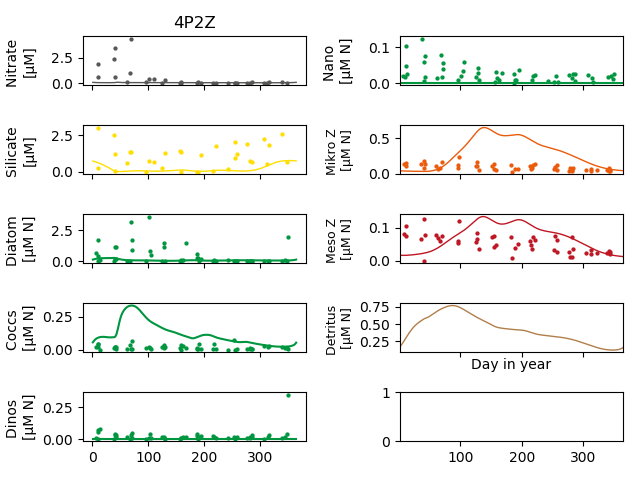
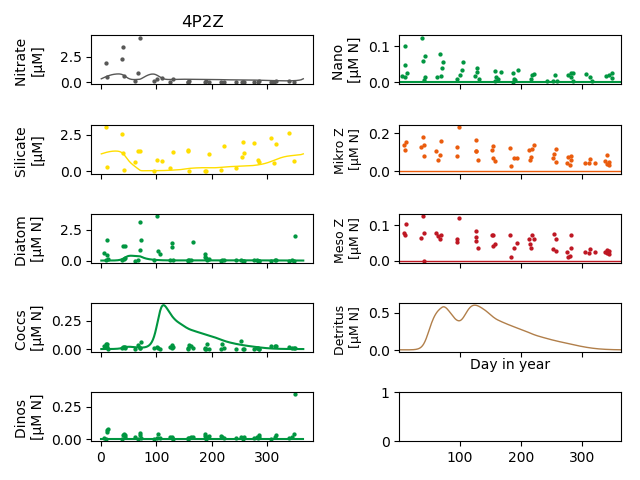
updating CARIACO prelim output

diff --git a/PhytoMFTM/Tests/plotOutput_CARIACO_Prelim.py b/PhytoMFTM/Tests/plotOutput_CARIACO_Prelim.py
@@ -190,10 +190,125 @@ def plotDATAvsYEARoutput(outarray, pfn, zn, i_plot, title):
     plt.margins(x=0)
     #adjustFigAspect(fig, aspect=.5)
     plt.tight_layout()
-    plt.savefig('FirstNaiveOutputCARIACO.png')
+    #plt.savefig('FirstNaiveOutputCARIACO.png')
+
+def plotYEARoutput(outarray, pfn, zn, i_plot, title):
+    f1, (ax1, ax2, ax3, ax4, ax5) = plt.subplots(5, 2, sharex='col')#, sharey='row')
+    # N / Si / Pdt / Pc / Pdn / Pn / Zmu / Zlambda / D
+    # PLOTTING
+    timedays = timedays_model[1:366]
+    # truncate outarraySiNO to last year of 5:
+    outarray_ly = outarray[1460:1825]
+    i_plot =0
+    # color vectors
+    colors = ['#808080' ,'#d55e00', '#cc79a7', '#0072b2', '#009e73', '#009e73']
+    alphas = [1., 0.8, 0.6, 0.4]
+    lws = [1, 2.5, 4, 5.5]
+
+    # artist for legends
+    FullArtist = plt.Line2D((0, 1), (0, 0), c=colors[4], alpha=alphas[1], lw=lws[0])
+
+    ax1[0].set_title(title)
+
+    # Figure 1
+    # N
+    ax1[0].plot(timedays, outarray_ly[:, 0], c="N", lw=lws[0], alpha=alphas[0], label='Model')
+    # N Data
+    # ax1[0].scatter(NO3NO2['yday'].values, NO3NO2['NO2NO3'].values, c="N", s=4.3, label='Data')
+    if i_plot == 0:
+        ax1[0].set_ylabel('Nitrate \n' '[µM]', multialignment='center', fontsize=10)
+    # ax1[i_plot].set_ylim(-0.1, 5)
+
+    # Si
+    ax2[0].plot(timedays, outarray_ly[:, 1], c="Si", lw=lws[0], alpha=alphas[0])
+    # Si Data
+    # ax2[0].scatter(SiOH['yday'].values, SiOH['SiOH'].values, c="Si", s=4.3)
+    if i_plot == 0:
+        ax2[0].set_ylabel('Silicate \n' '[µM]', multialignment='center', fontsize=10)
+    # ax2[i_plot].set_ylim(-0.1, 12)
+
+    # Phyto i=2
+    # ax3.plot(timedays, sum([outarray_ly[:, 3 + zn + i] for i in range(pfn)]), c=colors[4], lw=lws[1])
+    ax3[0].plot(timedays, outarray_ly[:, 3 + zn + 0], c="Phyto")
+    #ax3_tx = ax3.twinx()
+    # ax3[0].scatter(DIATOM['yday'].values, DIATOM['abundance'].values * 2 / 1000, c="Phyto", s=4.3)
+    # 2. pmol per cell [Marchetti and Harrison 2007]
+    # values of abundance are organisms per ml
+    # to convert pmol per cell per ml to µM = * abundance / 1000
+
+    ax4[0].plot(timedays, outarray_ly[:, 3 + zn + 1], c="Phyto")
+    #ax4_tx = ax4.twinx()
+    # ax4[0].scatter(COCCO['yday'].values, COCCO['abundance'].values * 1 / 1000, c="Phyto", s=4.3)
+    # 1 pmol per cell [Aksnes et al. 1994]
+
+    ax5[0].plot(timedays, outarray_ly[:, 3 + zn + 2], c="Phyto")
+    #ax5_tx = ax5.twinx()
+    # ax5[0].scatter(DINO['yday'].values, DINO['abundance'].values * 1.5 / 1000, c="Phyto", s=4.3)
+    # 1.5 pmol per cell [Li et al. 2016]
+
+    ax1[1].plot(timedays, outarray_ly[:, 3 + zn + 3], c="Phyto")
+    #ax6_tx = ax6.twinx()
+    # ax1[1].scatter(NANO['yday'].values, NANO['abundance'].values * 0.1 / 1000, c="Phyto", s=4.3)
+    # 30 fmol per cell > 0.03 pmol per cell [Maat et al. 2014]
+
+    #ax3_tx.set_ylim(-0.1, 0.8)
+    #ax4_tx.set_ylim(-0.1, 0.8)
+    #ax5_tx.set_ylim(-0.1, 0.8)
+    #ax6_tx.set_ylim(-0.1, 0.8)
+
+    if i_plot == 0:
+        ax3[0].set_ylabel('Diatom \n' '[µM N]', multialignment='center', fontsize=10)
+    if i_plot == 0:
+        ax4[0].set_ylabel('Coccs \n' '[µM N]', multialignment='center', fontsize=10)
+    if i_plot == 0:
+        ax5[0].set_ylabel('Dinos \n' '[µM N]', multialignment='center', fontsize=10)
+    if i_plot == 0:
+        ax1[1].set_ylabel('Nano \n' '[µM N]', multialignment='center', fontsize=10)
+    #ax3.set_ylim(-0.1, 0.8)
+    #ax4.set_ylim(-0.1, 0.8)
+    #ax5.set_ylim(-0.1, 0.8)
+    #ax6.set_ylim(-0.1, 0.8)
+
+    # ax3[i_plot].set_title('Phy Biomass & ChlA Data')
+
+    # Z
+    i=3
+    # ax4.plot(timedays, sum([outarray_ly[:, 3 + i] for i in range(zn)]), c=colors[4], lw=lws[1])
+    # [ax4.plot(timedays, outarray_ly[:, 3 + i], c=colors[i + 1], lw=lws[0], alpha=alphas[0]) for i in range(zn)]
+    ax2[1].plot(timedays, outarray_ly[:, 3 + 0], c="MikroZ", lw=lws[0], alpha=alphas[0])
+    # ax2[1].scatter(Zoo200BM['yday'].values, Zoo200BM['abundance'].values *0.1*0.071394, c="MikroZ", s=4.3)
+
+    ax3[1].plot(timedays, outarray_ly[:, 3 + 1], c="MesoZ", lw=lws[0], alpha=alphas[0])
+    # ax3[1].scatter(Zoo500BM['yday'].values, Zoo500BM['abundance'].values *0.1*0.071394, c="MesoZ", s=4.3)
+    if i_plot == 0:
+        ax2[1].set_ylabel('Mikro Z \n' '[µM N]', multialignment='center', fontsize=9)
+    if i_plot == 0:
+        ax3[1].set_ylabel('Meso Z \n' '[µM N]', multialignment='center', fontsize=9)
+    ax2[1].tick_params('y', labelsize=10)
+
+    # ax4[i_plot].set_title('Zooplankton')
+    # ax4[i_plot].set_ylim(0, 0.62)
+
+    # D
+    ax4[1].plot(timedays, outarray_ly[:, 2], c="D", lw=lws[0], alpha=alphas[0])
+    if i_plot == 0:
+        ax4[1].set_ylabel('Detritus \n' '[µM N]', multialignment='center', fontsize=9)
+
+    # ax5[i_plot].set_title('Detritus')
+    # ax5[i_plot].set_ylim(0,0.15)
+
+    ax4[1].set_xlabel('Day in year')
+    # Legend
+    f1.align_ylabels()
+    plt.margins(x=0)
+    #adjustFigAspect(fig, aspect=.5)
+    plt.tight_layout()
+    #plt.savefig('FirstNaiveOutputCARIACO.png')
 
 
 
 
+# plotDATAvsYEARoutput(out4P2Z, 4, 2, 1, '4P2Z')
 
-plotDATAvsYEARoutput(out4P2Z, 4, 2, 1, '4P2Z')
+
+plotYEARoutput(out4P2Z, 4, 2, 1, '4P2Z')

diff --git a/PhytoMFTM/Tests/runModel_CARIACO_Prelim.py b/PhytoMFTM/Tests/runModel_CARIACO_Prelim.py
@@ -52,24 +52,24 @@ standardparams.add('muP', value=0, vary=False)    # Phytoplankton maximum growth
 ptype1 = Parameters()
 ptype1.add('pt1_ratioSi', value=1, vary=False)  # Silicate ratio
 ptype1.add('pt1_U_Si', value=3.5, vary=False)   # Silicate Half Saturation Constant
-ptype1.add('pt1_U_N', value=1.5, vary=False)    # Nitrate Half Saturation Constant
+ptype1.add('pt1_U_N', value=12.5, vary=False)    # Nitrate Half Saturation Constant
 ptype1.add('pt1_muP', value=1.2, vary=False)    # Phytoplankton maximum growth rate (d^-1)
 
 # set up phytoplankton type 2 (e.g. Coccos)
 ptype2 = Parameters()
 #ptype2.add('pt2_OptI', value=30, vary=False)    # Optimum irradiance (einstein*m^-2*d^-1)
-ptype2.add('pt2_U_N', value=1.5, vary=False)    # Nitrate Half Saturation Constant
-ptype2.add('pt2_muP', value=1.15, vary=False)    # Phytoplankton maximum growth rate (d^-1)
+ptype2.add('pt2_U_N', value=12.5, vary=False)    # Nitrate Half Saturation Constant
+ptype2.add('pt2_muP', value=1., vary=False)    # Phytoplankton maximum growth rate (d^-1)
 
 # set up phytoplankton type 3 (e.g. Dinos)
 ptype3 = Parameters()
-ptype3.add('pt3_U_N', value=1.5, vary=False)    # Nitrate Half Saturation Constant
-ptype3.add('pt3_muP', value=0.6, vary=False)    # Phytoplankton maximum growth rate (d^-1)
+ptype3.add('pt3_U_N', value=12., vary=False)    # Nitrate Half Saturation Constant
+ptype3.add('pt3_muP', value=0.96, vary=False)    # Phytoplankton maximum growth rate (d^-1)
 
 # set up phytoplankton type 3 (e.g. Nanos)
 ptype4 = Parameters()
-ptype4.add('pt4_U_N', value=1.5, vary=False)    # Nitrate Half Saturation Constant
-ptype4.add('pt4_muP', value=0.65, vary=False)    # Phytoplankton maximum growth rate (d^-1)
+ptype4.add('pt4_U_N', value=12.1, vary=False)    # Nitrate Half Saturation Constant
+ptype4.add('pt4_muP', value=0.97, vary=False)    # Phytoplankton maximum growth rate (d^-1)
 
 # z - related
 #z grazing related
@@ -87,14 +87,14 @@ standardparams.add('muZ', value=0, vary=False)    # Zooplankton maximum grazing 
 ztype1 = Parameters()
 ztype1.add('zt1_muZ', value=0.7, vary=False)    # Zooplankton maximum grazing rate (d^-1)
 
-ztype1.add('zt1_Kp', value=.5, vary=False)       # Zooplankton Grazing saturation constant (-)
+ztype1.add('zt1_Kp', value=.2, vary=False)       # Zooplankton Grazing saturation constant (-)
 ztype1.add('zt1_pred', value=0.01, vary=False)    # quadratic higher order predation rate on zooplankton
 
 # set up zooplankton type 2 (e.g. MESO zooplankton)
 ztype2 = Parameters()
 ztype2.add('zt2_muZ', value=0.6, vary=False)    # Zooplankton maximum grazing rate (d^-1)
 
-ztype2.add('zt2_Kp', value=.5, vary=False)       # Zooplankton Grazing saturation constant (-)
+ztype2.add('zt2_Kp', value=.3, vary=False)       # Zooplankton Grazing saturation constant (-)
 ztype2.add('zt2_pred', value=0.01, vary=False)    # quadratic higher order predation rate on zooplankton
 
 """
@@ -106,7 +106,7 @@ Z2P2
 """
 # MIKRO
 ztype1.add('zt1_P1', value=0, vary=False)  # Diatoms
-ztype1.add('zt1_P2', value=0.53, vary=False)  # Coccos
+ztype1.add('zt1_P2', value=0.33, vary=False)  # Coccos
 ztype1.add('zt1_P3', value=0.33, vary=False)  # Dinos
 ztype1.add('zt1_P4', value=0.34, vary=False)  # Nano
 # MESO
@@ -180,7 +180,7 @@ def setupinitcond(pfn,zn):
     # initialize parameters:
     N0 = np.mean(mc.NOX)  # Initial Nitrate concentration (mmol*m^-3)
     Si0 = np.mean(mc.SiOX)  # Initial Silicate concentration (mmol*m^-3)
-    Z0 = 0.1 / zn  # Initial Zooplankton concentration (mmol*m^-3)
+    Z0 = 0.01 / zn  # Initial Zooplankton concentration (mmol*m^-3)
     D0 = 0.01  # Initial Detritus concentration (mmol*m^-3)
     P0 = 0.01 / pfn  # Initial Phytoplankton concentration (mmol*m^-3)
 

diff --git a/PhytoMFTM/PhytoMFTM/ModelCode.py b/PhytoMFTM/PhytoMFTM/ModelCode.py
@@ -115,7 +115,7 @@ def phytomftm_extendedoutput(x, t, paras, pClass, zClass):
     SilicateDrawdown = [p[i].silicatedrawdown(Gains[i]) for i in range(pfn)]
 
     # Zooplankton Grazing:
-    Gj = [z[j].zoofeeding(P, Z, func='vallina') for j in range(zn)]  # feeding probability for all food
+    Gj = [z[j].zoofeeding(P, Z, func='anderson') for j in range(zn)]  # feeding probability for all food
     PhytoGrazed = [p[i].zoograzing(Gj, P[i], Z) for i in range(pfn)]  # returns phyto grazed per type
 
     ZooMixing = [Z[i] * K_Z for i in range(zn)]
